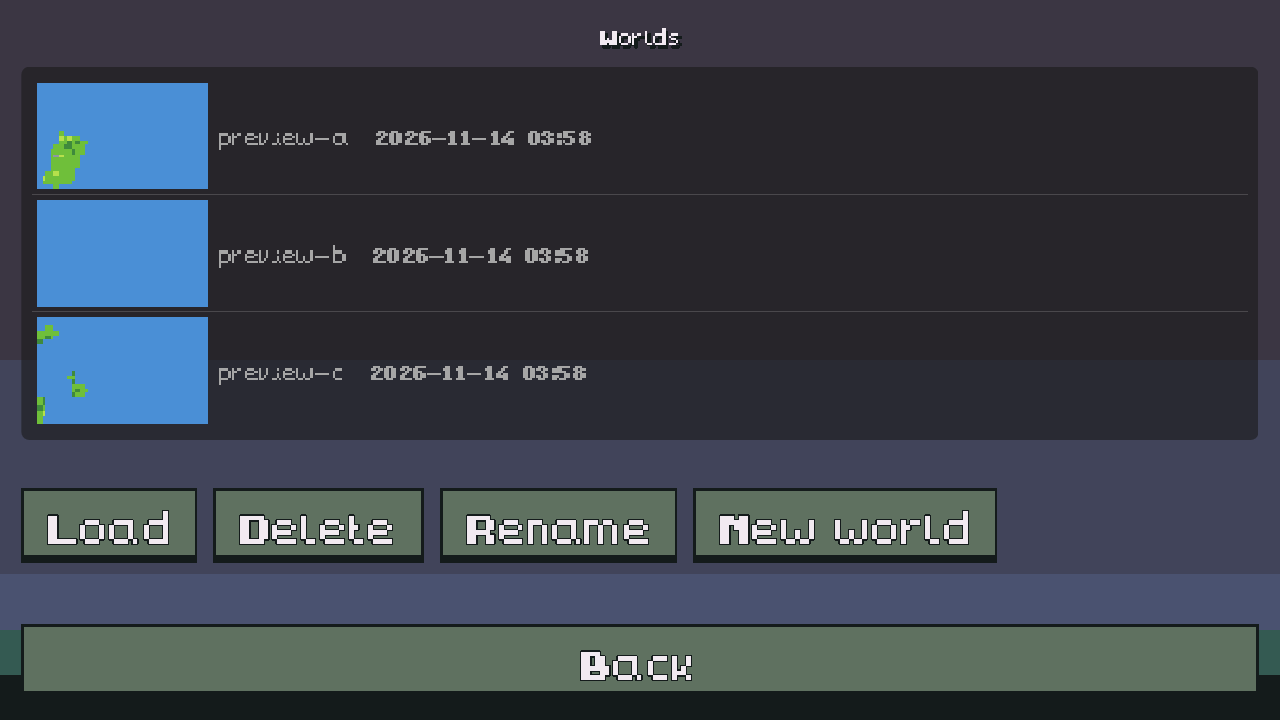
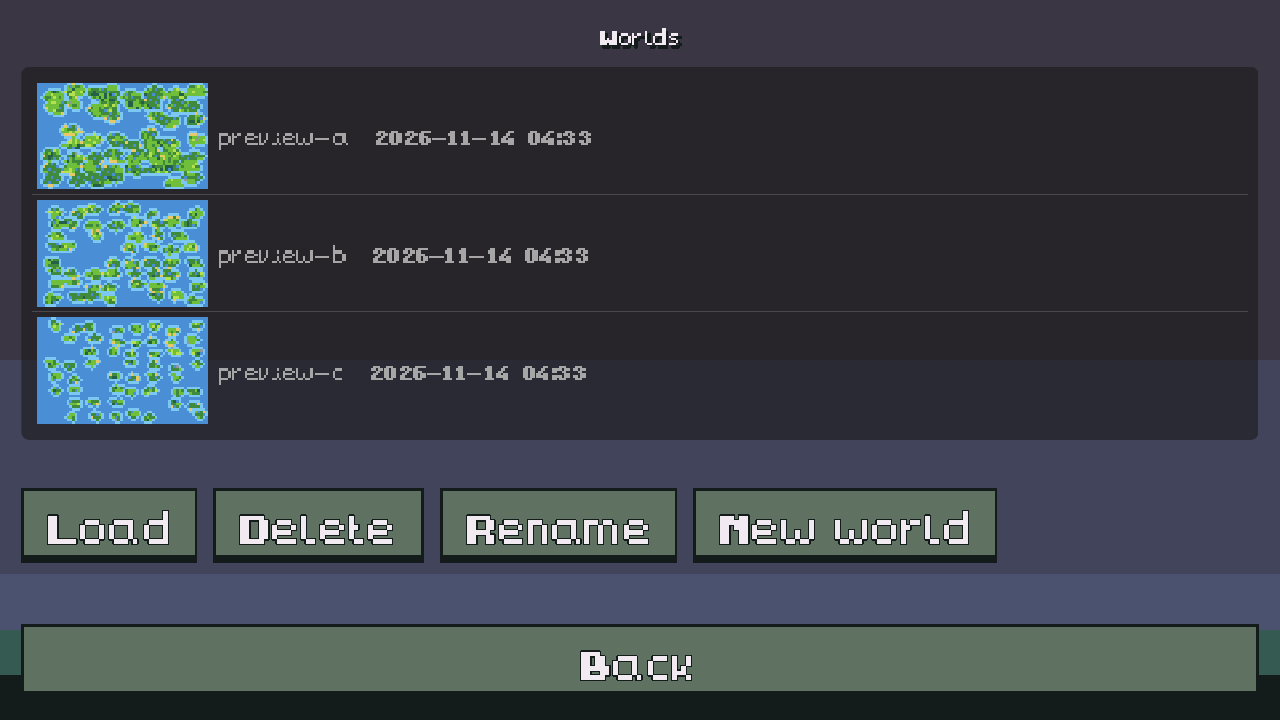
Fit saved-world previews to the full map extent
Sample the shaped world bounds into 64x40 using the minimap palette,
reject all-water thumbnails, and cache under previews v2.

Changed region(s): [[0.0312, 0.0917, 0.1875, 0.6111], [0.4062, 0.3361, 0.4375, 0.3667]]

diff --git a/.cursor/skills/verify-flagoria/features/saved-worlds.md b/.cursor/skills/verify-flagoria/features/saved-worlds.md
@@ -2,7 +2,7 @@
 
 Drive: drives/saved_worlds.gd
 
-The main menu Worlds screen lists every world save by name and the time the file was last written. Each row shows a small terrain preview from that save's generation inputs (`Scripts/world_save_preview.gd`), cached under `user://saves/_previews/v1/`, with a plain placeholder when a preview is missing or broken. Load hosts that world. Host, and New world, start a match that saves into a new file, so an existing save is not replaced. Save writes that match's file again. Delete asks first, then removes the file and its preview. Rename opens an inline name field; confirm calls `MapSave.rename_save` and renames the cached preview too.
+The main menu Worlds screen lists every world save by name and the time the file was last written. Each row shows a small terrain preview from that save's generation inputs (`Scripts/world_save_preview.gd`), cached under `user://saves/_previews/v2/` (whole-world fit, minimap palette), with a plain placeholder when a preview is missing or broken. Load hosts that world. Host, and New world, start a match that saves into a new file, so an existing save is not replaced. Save writes that match's file again. Delete asks first, then removes the file and its preview. Rename opens an inline name field; confirm calls `MapSave.rename_save` and renames the cached preview too.
 
 ## Sub-features
 
